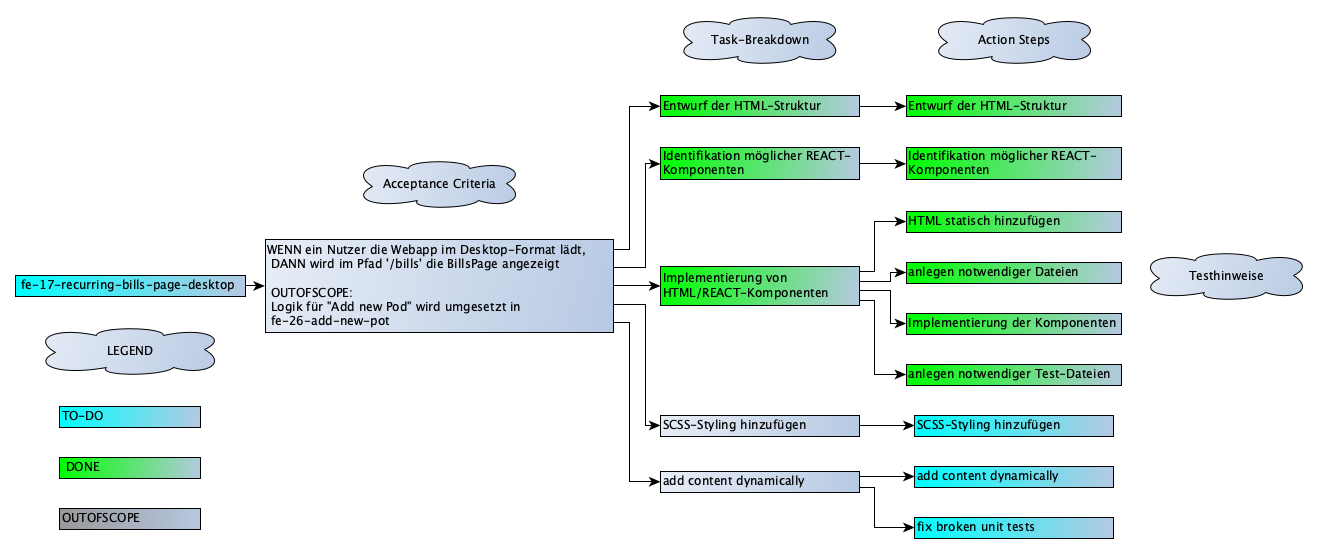
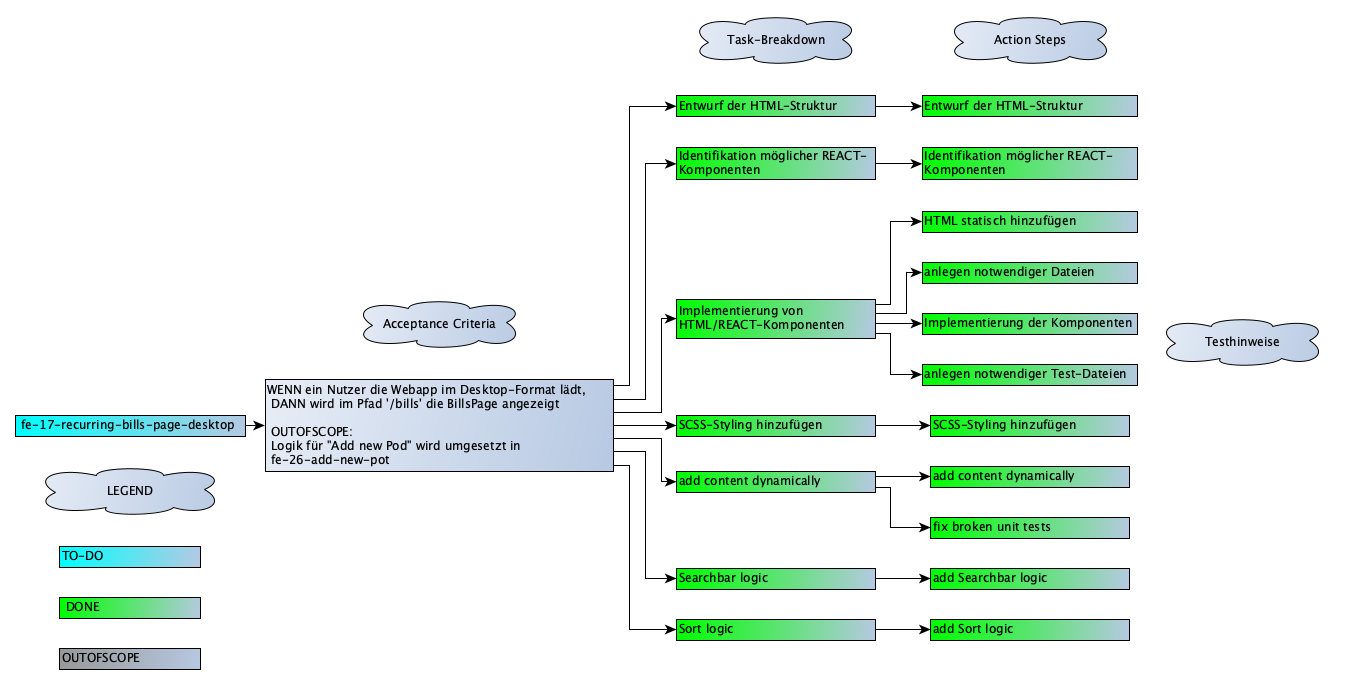
fe-17 add logic for searchbar and sort dropdown

Changed region(s): [[0.0, 0.0, 0.9857, 0.9837], [0.2464, 0.2767, 0.4005, 0.3996]]

diff --git a/frontend/src/components/bills/BillCard.spec.tsx b/frontend/src/components/bills/BillCard.spec.tsx
@@ -1,14 +1,18 @@
-import { render, screen } from '@testing-library/react';
+import { fireEvent, render, screen } from '@testing-library/react';
 import { BillCard } from './BillCard';
 import { mockedBills } from '../../fixtures/MockedBills';
+import { SortOptionEnum } from '../../constants/SortOptionEnum';
+import React from 'react';
 
 describe('BillCard', () => {
-  const fakeToday: Date = new Date('2024-08-03T14:23:11.000Z');
+  const fakeToday: Date = new Date('2024-08-01T14:23:11.000Z');
 
   const testProps = {
     bills: mockedBills,
     today: fakeToday,
   };
+
+  const testSearchbarInput = 'sp';
 
   it('renders div billCard', () => {
     const { container } = render(<BillCard {...testProps} />);
@@ -48,5 +52,136 @@ describe('BillCard', () => {
     const component = screen.getAllByTestId('bill-card-table-row');
 
     expect(component).toHaveLength(4);
+  });
+
+  describe('Sorting', () => {
+    it('sorts the bills from oldest to newest', () => {
+      render(<BillCard {...testProps} />);
+      let tableRows = screen.getAllByTestId('bill-card-table-row');
+      let firstDateString = tableRows[0].querySelector('.billCardTableRowDate')!.textContent!;
+      let secondDateString = tableRows[1].querySelector('.billCardTableRowDate')!.textContent!;
+      let firstDateNumber = parseInt(firstDateString.substring(10, firstDateString.length - 2));
+      let secondDateNumber = parseInt(secondDateString.substring(10, secondDateString.length - 2));
+      expect(firstDateNumber - secondDateNumber > 0).toBe(true);
+
+      const selectElement = screen.getByTestId('searchbar-dropdown-sort').querySelector('select');
+      fireEvent.change(selectElement!, { target: { value: 'oldest' } });
+
+      tableRows = screen.getAllByTestId('bill-card-table-row');
+      firstDateString = tableRows[0].querySelector('.billCardTableRowDate')!.textContent!;
+      secondDateString = tableRows[1].querySelector('.billCardTableRowDate')!.textContent!;
+      firstDateNumber = parseInt(firstDateString.substring(10, firstDateString.length - 2));
+      secondDateNumber = parseInt(secondDateString.substring(10, secondDateString.length - 2));
+      expect(firstDateNumber - secondDateNumber > 0).toBe(false);
+    });
+
+    it('sorts the bills from newest to oldest', () => {
+      render(<BillCard {...testProps} />);
+      let selectElement = screen.getByTestId('searchbar-dropdown-sort').querySelector('select');
+      fireEvent.change(selectElement!, { target: { value: 'oldest' } });
+      let tableRows = screen.getAllByTestId('bill-card-table-row');
+      let firstDateString = tableRows[0].querySelector('.billCardTableRowDate')!.textContent!;
+      let secondDateString = tableRows[1].querySelector('.billCardTableRowDate')!.textContent!;
+      let firstDateNumber = parseInt(firstDateString.substring(10, firstDateString.length - 2));
+      let secondDateNumber = parseInt(secondDateString.substring(10, secondDateString.length - 2));
+      expect(firstDateNumber - secondDateNumber > 0).toBe(false);
+
+      selectElement = screen.getByTestId('searchbar-dropdown-sort').querySelector('select');
+      fireEvent.change(selectElement!, { target: { value: 'newest' } });
+
+      tableRows = screen.getAllByTestId('bill-card-table-row');
+      firstDateString = tableRows[0].querySelector('.billCardTableRowDate')!.textContent!;
+      secondDateString = tableRows[1].querySelector('.billCardTableRowDate')!.textContent!;
+      firstDateNumber = parseInt(firstDateString.substring(10, firstDateString.length - 2));
+      secondDateNumber = parseInt(secondDateString.substring(10, secondDateString.length - 2));
+      expect(firstDateNumber - secondDateNumber > 0).toBe(true);
+    });
+
+    it('sorts the bills from A to Z', () => {
+      render(<BillCard {...testProps} />);
+
+      const selectElement = screen.getByTestId('searchbar-dropdown-sort').querySelector('select');
+      fireEvent.change(selectElement!, { target: { value: 'atoz' } });
+
+      const tableRows = screen.getAllByTestId('bill-card-table-row');
+      const firstName = tableRows[1].querySelector('.billCardTableRowNameLabel')!.textContent!;
+      const secondName = tableRows[2].querySelector('.billCardTableRowNameLabel')!.textContent!;
+      expect(firstName.localeCompare(secondName) < 0).toBe(true);
+    });
+
+    it('sorts the bills from Z to A', () => {
+      render(<BillCard {...testProps} />);
+
+      const selectElement = screen.getByTestId('searchbar-dropdown-sort').querySelector('select');
+      fireEvent.change(selectElement!, { target: { value: 'ztoa' } });
+
+      const tableRows = screen.getAllByTestId('bill-card-table-row');
+      const firstName = tableRows[1].querySelector('.billCardTableRowNameLabel')!.textContent!;
+      const secondName = tableRows[2].querySelector('.billCardTableRowNameLabel')!.textContent!;
+      expect(firstName.localeCompare(secondName) < 0).toBe(false);
+    });
+
+    it('sorts the bills from highest to lowest', () => {
+      render(<BillCard {...testProps} />);
+
+      const selectElement = screen.getByTestId('searchbar-dropdown-sort').querySelector('select');
+      fireEvent.change(selectElement!, { target: { value: 'highest' } });
+
+      const tableRows = screen.getAllByTestId('bill-card-table-row');
+      const firstAmount = tableRows[0].querySelector('.billCardTableRowAmount')!.textContent!;
+      const firstAmountValue = parseInt(firstAmount.substring(1, firstAmount.length));
+      const secondAmount = tableRows[1].querySelector('.billCardTableRowAmount')!.textContent!;
+      const secondAmountValue = parseInt(secondAmount.substring(1, firstAmount.length));
+      expect(firstAmountValue - secondAmountValue > 0).toBe(true);
+    });
+
+    it('sorts the bills from lowest to highest', () => {
+      render(<BillCard {...testProps} />);
+
+      const selectElement = screen.getByTestId('searchbar-dropdown-sort').querySelector('select');
+      fireEvent.change(selectElement!, { target: { value: 'lowest' } });
+
+      const tableRows = screen.getAllByTestId('bill-card-table-row');
+      const firstAmount = tableRows[0].querySelector('.billCardTableRowAmount')!.textContent!;
+      const firstAmountValue = parseInt(firstAmount.substring(1, firstAmount.length));
+      const secondAmount = tableRows[1].querySelector('.billCardTableRowAmount')!.textContent!;
+      const secondAmountValue = parseInt(secondAmount.substring(1, firstAmount.length));
+      expect(firstAmountValue - secondAmountValue > 0).toBe(false);
+    });
+  });
+
+  describe('Searching', () => {
+    it('filters all bills for content of current input of searchbar', () => {
+      render(<BillCard {...testProps} />);
+
+      const inputElement = screen.getByTestId('searchbar-input').querySelector('input');
+      fireEvent.change(inputElement!, { target: { value: `${testSearchbarInput}` } });
+
+      const filteredTableRowAfterSearching = screen.getAllByTestId('bill-card-table-row');
+      filteredTableRowAfterSearching.forEach((row) => {
+        const rowName = row.querySelector('.billCardTableRowNameLabel')!.textContent;
+        expect(rowName!.toLowerCase()).toContain(testSearchbarInput);
+      });
+    });
+
+    it('keeps sorting after searching', () => {
+      render(<BillCard {...testProps} />);
+      const selectSortElement = screen
+        .getByTestId('searchbar-dropdown-sort')
+        .querySelector('select');
+      fireEvent.change(selectSortElement!, { target: { value: SortOptionEnum.HIGHEST } });
+
+      const inputElement = screen.getByTestId('searchbar-input').querySelector('input');
+      fireEvent.change(inputElement!, { target: { value: `${testSearchbarInput}` } });
+
+      const tableAfterSortingAndSearching = screen.getAllByTestId('bill-card-table-row');
+      const firstAmount =
+        tableAfterSortingAndSearching[0].querySelector('.billCardTableRowAmount')!.textContent!;
+      const firstAmountValue = parseInt(firstAmount.substring(1, firstAmount.length));
+      const secondAmount =
+        tableAfterSortingAndSearching[1].querySelector('.billCardTableRowAmount')!.textContent!;
+      const secondAmountValue = parseInt(secondAmount.substring(1, firstAmount.length));
+      expect(firstAmountValue > secondAmountValue).toBe(true);
+    });
   });
 });

diff --git a/frontend/src/components/bills/BillCard.tsx b/frontend/src/components/bills/BillCard.tsx
@@ -7,7 +7,6 @@ import { useRef, useState } from 'react';
 import { SearchbarInputHandle } from '../../types/SearchbarInputHandle';
 import { SearchbarDropdownSort } from '../searchbar/SearchbarDropdownSort';
 import { SortOptionEnum } from '../../constants/SortOptionEnum';
-import { getTransactions } from '../../globals/services/TransactionService';
 import PropTypes from 'prop-types';
 
 BillCard.propTypes = {
@@ -16,34 +15,25 @@ BillCard.propTypes = {
 };
 
 export function BillCard({ bills, today }: BillCardProps) {
-  const [pageIndex, setPageIndex] = useState(0);
   const [currentSortOption, setCurrentSortOption] = useState<string>(SortOptionEnum.LATEST);
+
+  const [filteredTransactions, setFilteredTransactions] = useState(bills);
+
+  let shadowFilteredTransactions: EPTransaction[] = [...filteredTransactions];
+
   const searchbarRef = useRef<SearchbarInputHandle>();
 
-  const handleInputChange = (currentInput: string) => {
-    //TODO
-    // const filteredByInput = transactions.filter((transaction) => {
-    //     const transactionSmall = transaction.name.toLowerCase();
-    //     const inputSmall = currentInput.toLowerCase();
-    //     return transactionSmall.includes(inputSmall);
-    // });
-    //
-    // shadowFilteredTransactions = [...filteredByInput];
-    //
-    // handleCategoryChange(currentCategory, filteredByInput);
-  };
-
   const handleSortChange = (sortOption: string) => {
-    let sorted = [...getTransactions()];
+    let sorted = [...shadowFilteredTransactions];
 
     setCurrentSortOption(sortOption);
 
     switch (sortOption) {
       case SortOptionEnum.LATEST:
-        sorted.sort((a, b) => new Date(b.date).getTime() - new Date(a.date).getTime());
+        sorted.sort((a, b) => b.dateRaw.getDate() - a.dateRaw.getDate());
         break;
       case SortOptionEnum.OLDEST:
-        sorted.sort((a, b) => new Date(a.date).getTime() - new Date(b.date).getTime());
+        sorted.sort((a, b) => a.dateRaw.getDate() - b.dateRaw.getDate());
         break;
       case SortOptionEnum.ATOZ:
         sorted.sort((a, b) => a.name.localeCompare(b.name));
@@ -51,20 +41,34 @@ export function BillCard({ bills, today }: BillCardProps) {
       case SortOptionEnum.ZTOA:
         sorted.sort((a, b) => b.name.localeCompare(a.name));
         break;
-      case SortOptionEnum.HIGHEST:
+      case SortOptionEnum.LOWEST:
         sorted.sort((a, b) => b.amount - a.amount);
         break;
-      case SortOptionEnum.LOWEST:
+      case SortOptionEnum.HIGHEST:
         sorted.sort((a, b) => a.amount - b.amount);
         break;
       default:
-        sorted.sort((a, b) => new Date(b.date).getTime() - new Date(a.date).getTime());
+        sorted.sort((a, b) => b.dateRaw.getTime() - a.dateRaw.getTime());
         break;
     }
 
-    // setFilteredTransactions(sorted);
+    setFilteredTransactions(sorted);
+  };
 
-    setPageIndex(0);
+  const handleInputChange = (currentInput: string) => {
+    const filteredByInput = bills.filter((transaction) => {
+      const transactionSmall = transaction.name.toLowerCase();
+      const inputSmall = currentInput.toLowerCase();
+      return transactionSmall.includes(inputSmall);
+    });
+
+    shadowFilteredTransactions = [...filteredByInput];
+
+    if (filteredByInput.length === bills.length && searchbarRef.current) {
+      searchbarRef.current.clearInput();
+    }
+
+    handleSortChange(currentSortOption);
   };
 
   return (
@@ -81,7 +85,7 @@ export function BillCard({ bills, today }: BillCardProps) {
             <label className="billCardTableHeaderDate">Due Date</label>
             <label className="billCardTableHeaderAmount">Amount</label>
           </div>
-          {bills.map((transaction: EPTransaction, index: number) => (
+          {filteredTransactions.map((transaction: EPTransaction, index: number) => (
             <BillCardTableRow key={index} transaction={transaction} today={today} />
           ))}
         </div>
